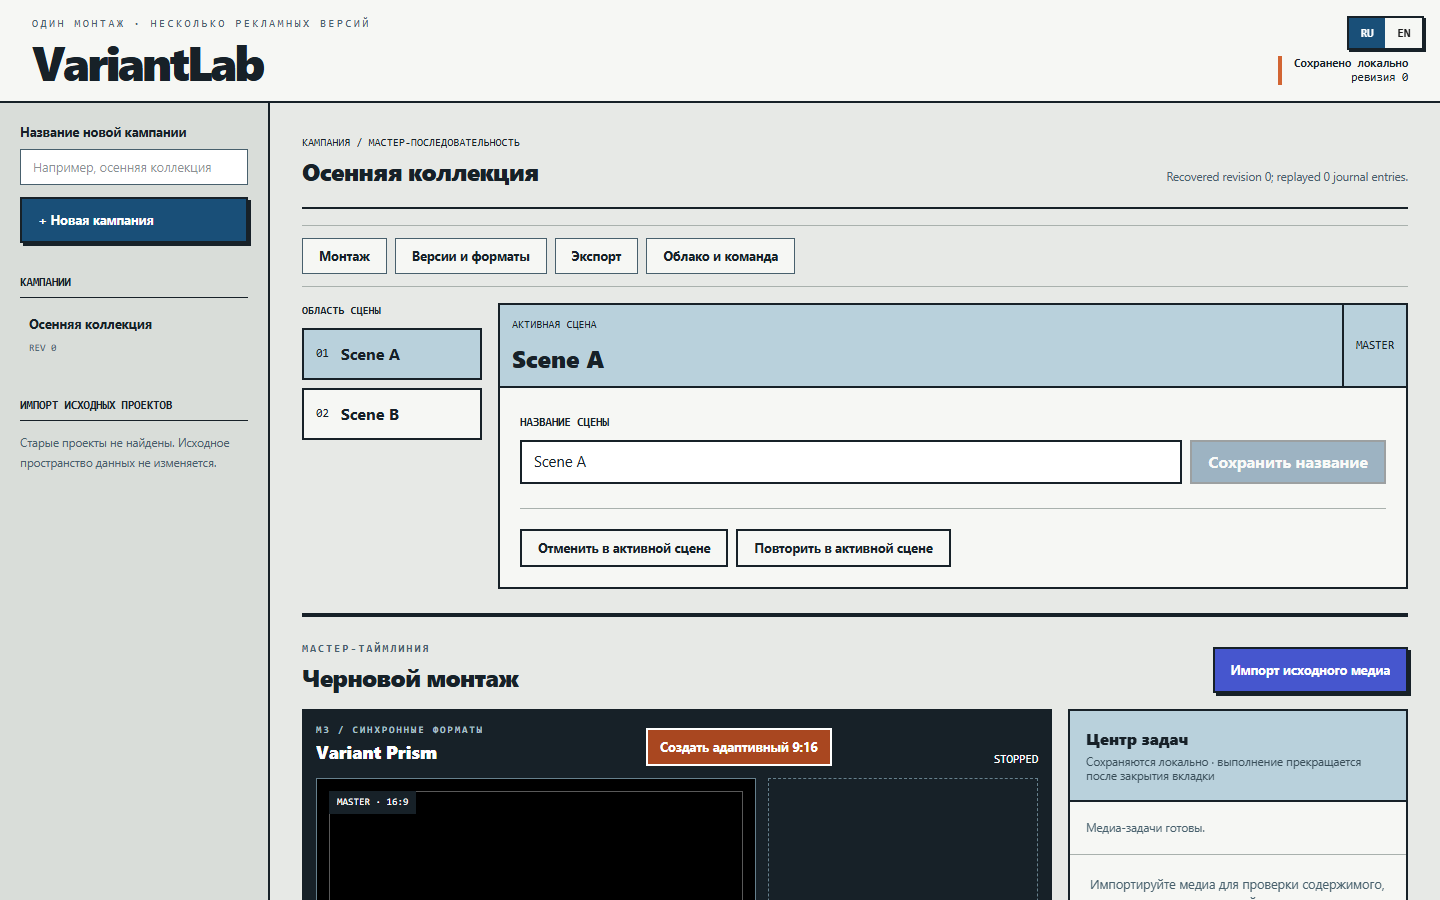
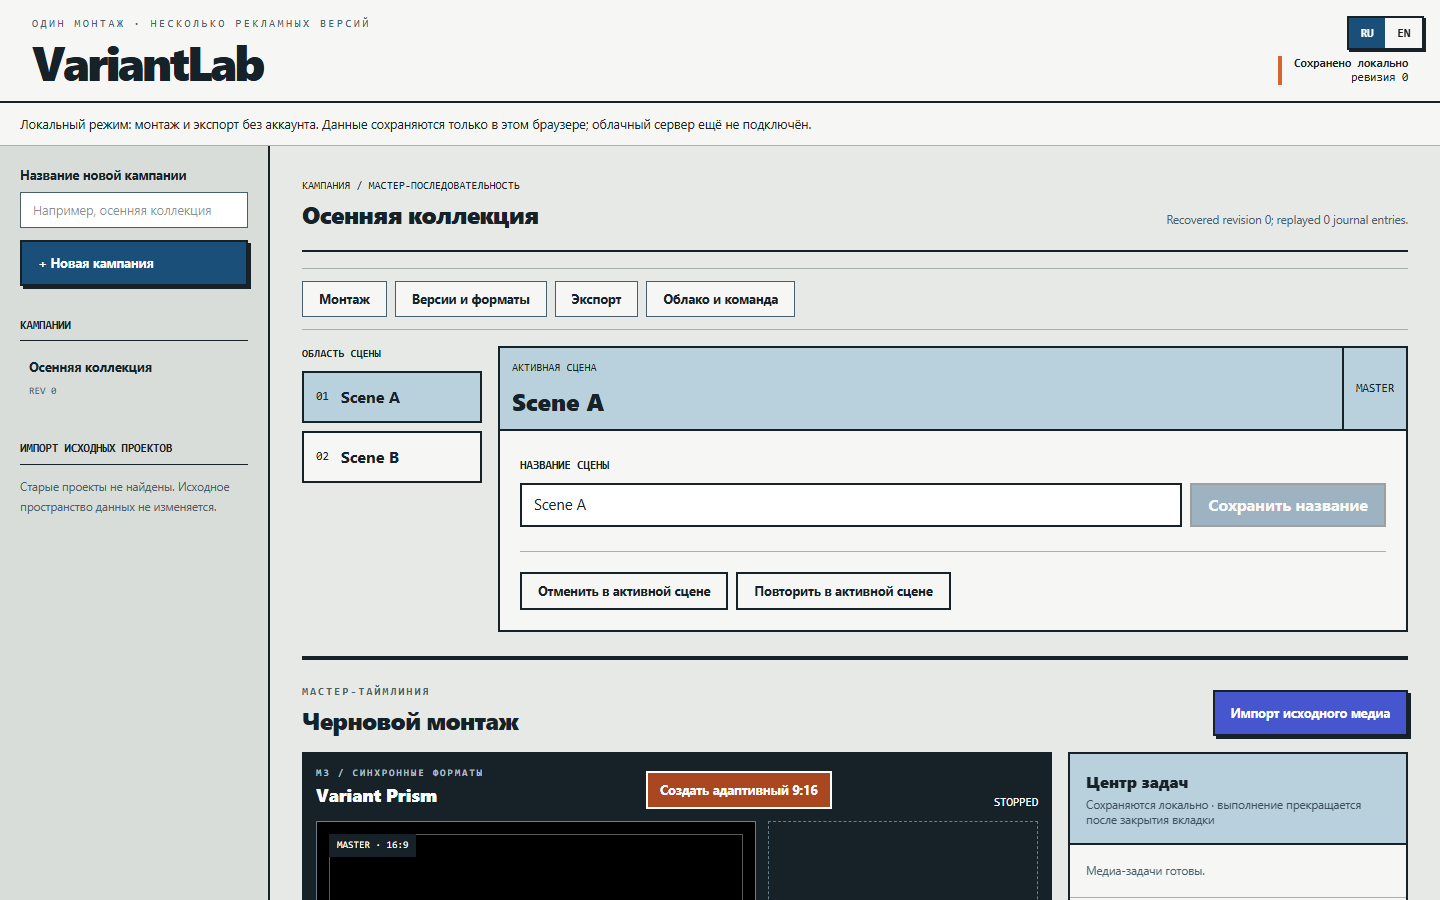
docs: record verified public workflows and release boundaries

Changed region(s): [[0.0, 0.0933, 1.0, 1.0], [0.0, 0.4044, 0.1562, 0.5911]]

diff --git a/docs/PRODUCT_COMPLETION.md b/docs/PRODUCT_COMPLETION.md
@@ -40,16 +40,23 @@
   tasks: pass (2.4 minutes for the complete test on this local shared machine).
   This is not a capacity claim for other hardware or a public deployment.
 - Static publication package smoke: real campaign and adaptive format: pass.
-- Public HTTPS first-run/reopen/accessibility and authored video export: pass.
-  These were run against Sites version 3, not a localhost URL.
+- Public HTTPS first-run/reopen/accessibility, publication mode, adaptive format
+  and authored video export: all three tests pass on final Sites version 4
+  (25.8 seconds, Chromium on this shared Windows machine). The video test checks
+  real authored text and PNG in the downloaded output, not just a successful job.
+- Manual public UI: named campaign, reload, scene rename, adaptive 9:16, export
+  navigation and streamed editable bundle (3342 bytes): pass. The complete media
+  import/video-export sequence was automated, not relabelled as manual coverage.
 - Browser-local mode smoke and connected auth after the mode separation: pass.
 - Production Compose config validation: pass, no production services started.
 - Gitleaks working-tree publication scan: no leaks found.
 
 Rust source/contracts were unchanged; native/WASM gates from previous receipts
-were not relabelled as new test runs. The latest GitHub main run initially failed
-on the browser long-task assertion; local scale now passes, but remote CI must
-still validate the new commit. No performance threshold was relaxed.
+were not relabelled as new local test runs. The preceding GitHub main run failed
+on the browser long-task assertion; local scale now passes. Full remote release
+gates are attached to [PR #2](https://github.com/godaylor/variantlab/pull/2/checks).
+Consult that check record for the final remote outcome. No performance threshold
+was relaxed.
 
 ## Remaining release boundary
 

diff --git a/PORTFOLIO_HANDOFF.md b/PORTFOLIO_HANDOFF.md
@@ -48,8 +48,8 @@ Postgres is canonical, Redis dispatches, and immutable assets live in S3 storage
 
 ## Screenshots
 
-- `docs/screenshots/first-run.png` — actual first-run guidance and campaign naming.
-- `docs/screenshots/campaign-workspace.png` — actual saved campaign workspace.
+- `docs/screenshots/first-run.png` — public first-run guidance and campaign naming.
+- `docs/screenshots/campaign-workspace.png` — public saved campaign workspace.
 
 ## Licensing and production claims
 
@@ -60,3 +60,9 @@ implementation or trademark clearance. No unverified stock imagery was added.
 The public origin delivers device-local editing. Do not label local tests as
 public connected verification. Exact completed tests and remaining requirements:
 `docs/PRODUCT_COMPLETION.md`, `docs/PRODUCTION_DEPLOY.md`.
+
+The public release was verified on 2026-09-11: campaign creation and durable
+reopen, adaptive variants, accessibility and an actual downloaded video containing
+authored text and PNG all passed in Chromium. A manual UI pass covered creation,
+scene editing, format creation and the editable-project download. Public cloud
+login/sync/render are explicitly unavailable until the connected host is deployed.
